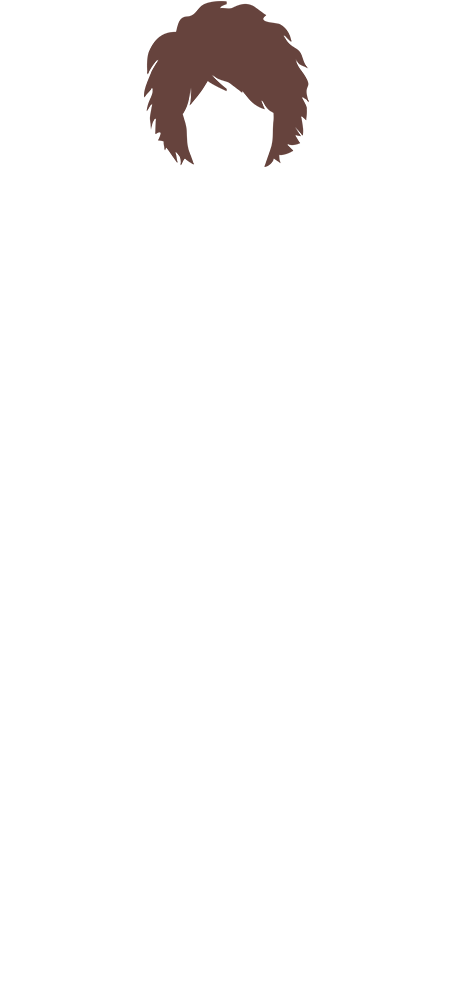
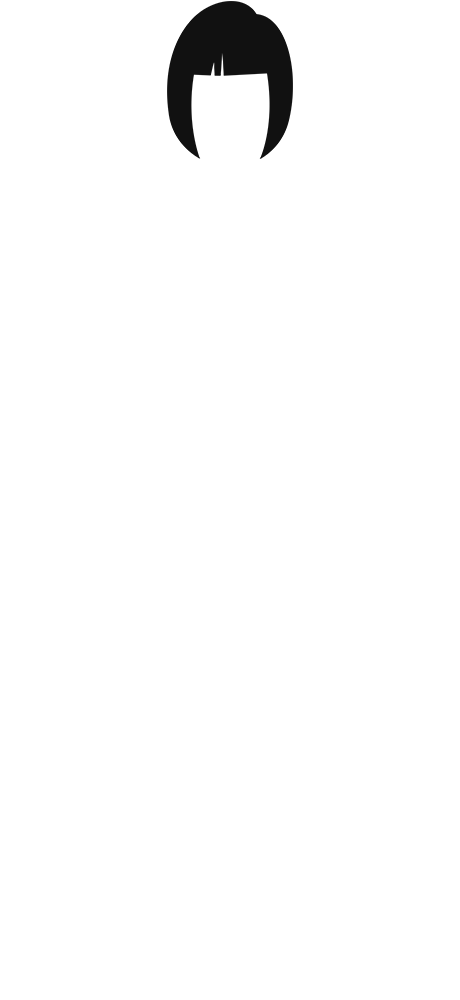
Слайдеры, формирование данных кандидата и перенос их на карточку

Changed region(s): [[0.3043, 0.0, 0.6696, 0.186]]

diff --git a/JS_diploma/js/script.js b/JS_diploma/js/script.js
@@ -1,8 +1,9 @@
-window.addEventListener('DOMContentLoaded', function() {
+window.addEventListener('DOMContentLoaded', function () {
 	let overlay = document.getElementsByClassName('overlay')[0],
 					modal = overlay.getElementsByClassName('popup')[0],
 					modalBtn = document.getElementById('popup-btn'),
 					main = document.getElementsByClassName('main')[0],
+					mainCards = main.getElementsByClassName('main-cards-item'),
 					custom = document.getElementsByClassName('custom')[0],
 					customName = document.getElementById('name'),
 					customAge = document.getElementById('age'),
@@ -11,12 +12,17 @@ window.addEventListener('DOMContentLoaded', function() {
 					customSelect = document.getElementById('select'),
 					customViews = customSelect.options[customSelect.selectedIndex].value,
 					customBio = document.getElementById('bio'),
+     customReady = document.getElementById('ready'),
 					president = {
-					fullName: '',
-					age: '',
-					sex: '',
-					views: '',
-					biography: ''
+					fullName: 'без имени',
+					age: 'сколько-то',
+					sex: 'Мужской',
+					views: 'Неопределённые',
+					biography: 'Умалчивается',
+					skin: '',
+					clothes: '',
+					hair: '',
+					shoes: ''
 					};
 
 
@@ -24,15 +30,23 @@ window.addEventListener('DOMContentLoaded', function() {
 	modal.classList.add('animated', 'bounceInUp');
 
 	modalBtn.addEventListener('click', function() {
-		overlay.classList.add('animated', 'fadeOut');
+		setTimeout(function() {
+            overlay.classList.add('animated', 'fadeOut');
+        }, 500);
 		modal.classList.remove('bounceInUp');
 		modal.classList.add('bounceOutUp');
 		main.style.display = "none";
 		custom.classList.add('show-flex');
-		for (let i = 0; i < custom.children.length; i++) {
+        setTimeout(function() {
+            for (let i = 0; i < custom.children.length; i++) {
 				custom.children[i].classList.add('show-block');
+            if (custom.children[i].classList.contains('custom-char')) {
+                custom.children[i].classList.add('animated', 'slideInDown');
+            } else
+                custom.children[i].classList.add('animated', 'slideInUp');
 		};
-		setTimeout(function() {overlay.style.display = "none"}, 1000);
+        }, 1300);
+		setTimeout(function() {overlay.style.display = "none"}, 2000);
 	});
 
 	//Получаем имя кандидата
@@ -53,16 +67,22 @@ window.addEventListener('DOMContentLoaded', function() {
 		console.log(president);
 	});
 
-	//При запуск страницы задаём пол по умолчанию
+	//При запуске страницы задаём пол, взгляды по умолчанию, а также надеваем обувь
  for (let i = 0; i < customSex.length; i++) {
      if (customSex[i].type == "radio" && customSex[i].checked) {
          president.sex = customSex[i].value;
-     }
- }
+     };
+ };
+ president.views = customViews;
+ president.shoes = 'url(img/clothes/construct/shoes.png)';
+
  //Меняем пол
 	customRadio.addEventListener('click', function(event) {
 		if (event.target && event.target.type == 'radio' && event.target.checked) {
 			president.sex = event.target.value;
+			showSkins(skinIndex);
+			showClothes(clothesIndex);
+			showHair(hairIndex);
 			console.log(president);
 		};
 	});
@@ -79,9 +99,169 @@ window.addEventListener('DOMContentLoaded', function() {
 		president.biography = this.value;
 		console.log(president);
 	});
+    
+	//Показать окно для голосования
+	customReady.addEventListener('click', function() {
+  for (let i = 0; i < custom.children.length; i++) {
+  if (custom.children[i].classList.contains('custom-char')) {
+      custom.children[i].classList.add('animated', 'slideOutUp');
+  } else
+      custom.children[i].classList.add('animated', 'slideOutDown');
+  };
+  //Добавляем копию карточки кандидата
+  let newCard = mainCards[1].cloneNode(true);
+  mainCards[1].parentNode.insertBefore(newCard, mainCards[1].nextSibling);
+  //Записываем в эту карточку данные нового кандидата
+  let newCardName = newCard.querySelector('.name'),
+  				newCardAge = newCard.querySelector('.age'),
+  				newCardSex = newCard.querySelector('.sex'),
+  				newCardViews = newCard.querySelector('.views'),
+  				newCardBio = newCard.querySelector('.bio'),
+  				newCardPhoto = newCard.querySelector('.photo');
+  newCardName.innerHTML = president.fullName;
+  newCardAge.innerHTML = `${president.age} лет`;
+  newCardSex.innerHTML = president.sex;
+  newCardViews.innerHTML = president.views;
+  newCardBio.innerHTML = president.biography;
+  newCardPhoto.style.cssText = `background-image: ${president.shoes},
+  																																																${president.clothes},
+  																																																${president.hair},
+  																																																${president.skin};
+  																														background-size: cover;`;
+
+		setTimeout(function() {
+	  custom.classList.remove('show-flex');
+	  custom.classList.add('hide');
+	  main.style.display = "block";
+		}, 1500);
+	});
+
+ //Персонаж
+ let personSkin = document.getElementById('person-skin'),
+ 				personClothes = document.getElementById('person-clothes'),
+ 				personHair = document.getElementById('person-hair');
 
 
+
+	//Слайдер
+	let skin = document.querySelector('.skin'),
+					skinColor = skin.getElementsByClassName('skin-color'),
+					hair = document.querySelector('.hair'),
+					hairStyle = hair.getElementsByClassName('hair-style'),
+					clothes = document.querySelector('.clothes'),
+					clothesStyle = clothes.getElementsByClassName('clothes-style'),
+					prev = document.getElementsByClassName('prev'),
+					next = document.getElementsByClassName('next'),
+					skinIndex = 1,
+					clothesIndex = 1,
+					hairIndex = 1;
+
+	//Показываем кожу
+	showSkins(skinIndex);
+	function showSkins(n) {
+		if (n > 3) {
+			skinIndex = 1;
+		};
+		if (n < 1) {
+			skinIndex = 3;
+		};
+		for ( let i = 0; i < 3; i++) {
+			skinColor[i].style.display = 'none';
+		};
+		skinColor[skinIndex - 1].style.display = 'block';
+		if (president.sex == 'Мужской') {
+			personSkin.style.backgroundImage = `url(img/skin/skin-${skinIndex}.png)`;
+			president.skin = `url(img/skin/skin-${skinIndex}.png)`;
+		} else if (president.sex == 'Женский') {
+			personSkin.style.backgroundImage = `url(img/skin/skin-${skinIndex+3}.png)`;
+			president.skin = `url(img/skin/skin-${skinIndex+3}.png)`;
+		};
+	};
+
+	//Показываем одежду
+	showClothes(clothesIndex);
+	function showClothes(n) {
+		if (n > 3) {
+			clothesIndex = 1;
+		};
+		if (n < 1) {
+			clothesIndex = 3;
+		};
+		for ( let i = 0; i < 3; i++) {
+			clothesStyle[i].style.display = 'none';
+			clothesStyle[i+3].style.display = 'none';
+		};
+		if (president.sex == 'Мужской') {
+			clothesStyle[clothesIndex - 1].style.display = 'block';
+			personClothes.style.backgroundImage = `url(img/clothes/construct/clothes-${clothesIndex}.png)`;
+			president.clothes = `url(img/clothes/construct/clothes-${clothesIndex}.png)`;
+		} else if (president.sex == 'Женский') {
+			clothesStyle[clothesIndex + 2].style.display = 'block';
+			personClothes.style.backgroundImage = `url(img/clothes/construct/clothes-${clothesIndex+3}.png)`;
+			president.clothes = `url(img/clothes/construct/clothes-${clothesIndex+3}.png)`;
+		};
+	};
+
+	//Показываем волосы
+	showHair(hairIndex);
+	function showHair(n) {
+		if (n > 3) {
+			hairIndex = 1;
+		};
+		if (n < 1) {
+			hairIndex = 3;
+		};
+		for ( let i = 0; i < 3; i++) {
+			hairStyle[i].style.display = 'none';
+			hairStyle[i+3].style.display = 'none';
+		};
+		if (president.sex == 'Мужской') {
+			hairStyle[hairIndex - 1].style.display = 'block';
+			personHair.style.backgroundImage = `url(img/hair/construct/hair-${hairIndex}.png)`;
+			president.hair = `url(img/hair/construct/hair-${hairIndex}.png)`;
+		} else if (president.sex == 'Женский') {
+			hairStyle[hairIndex + 2].style.display = 'block';
+			personHair.style.backgroundImage = `url(img/hair/construct/hair-${hairIndex+3}.png)`;
+			president.hair = `url(img/hair/construct/hair-${hairIndex+3}.png)`;
+		};
+	};
+
+	//Слушаем все кнопки "Слайдер влево"
+	for ( let i = 0; i < prev.length; i++) {
+		prev[i].addEventListener('click', function() {
+			if (this.parentNode == skin) {
+				plusSkins(-1);
+				} else if (this.parentNode == clothes) {
+						plusClothes(-1);
+						} else if (this.parentNode == hair) {
+								plusHair(-1);
+						};
+		});
+	//Слушаем все кнопки "Слайдер вправо"
+		next[i].addEventListener('click', function() {
+			if (this.parentNode == skin) {
+				plusSkins(1);
+				} else if (this.parentNode == clothes) {
+						plusClothes(1);
+						} else if (this.parentNode == hair) {
+								plusHair(1);
+						};
+		});
+	};
+
+
+	function plusSkins(n) {
+		showSkins(skinIndex += n);
+	};
+	function plusClothes(n) {
+		showClothes(clothesIndex += n);
+	};
+	function plusHair(n) {
+		showHair(hairIndex += n);
+	};
 
 	console.log(president);
 	console.log(customViews);
+	console.log(mainCards);
+
 });
